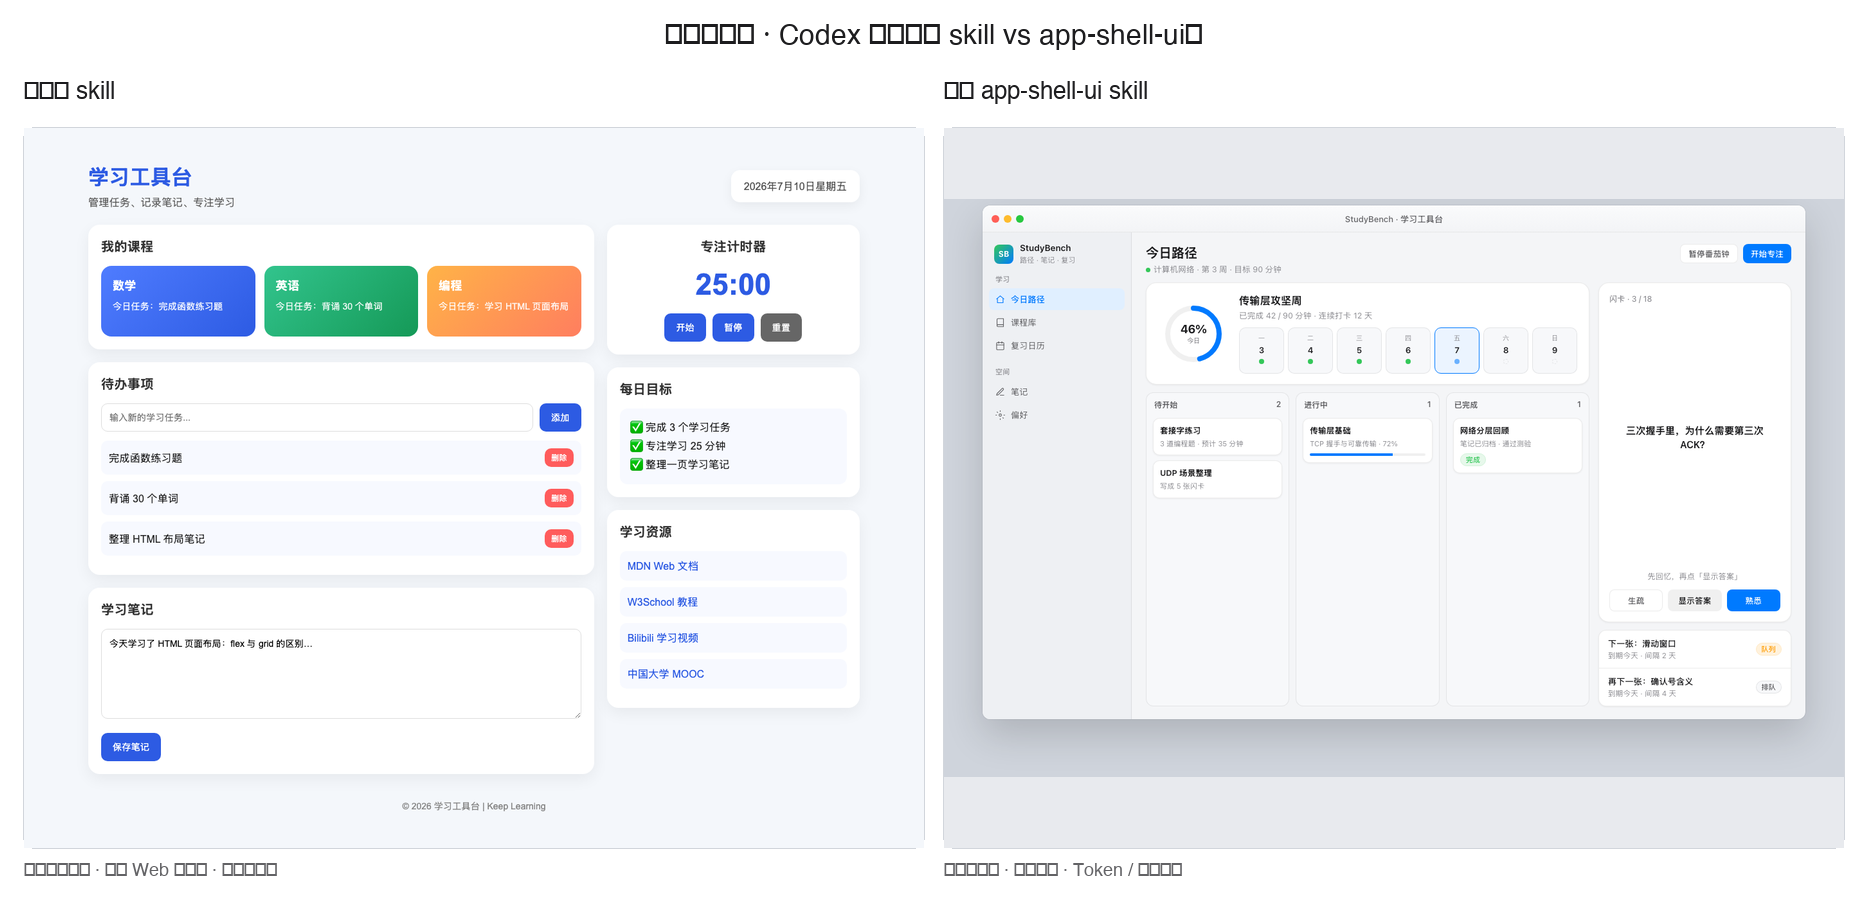
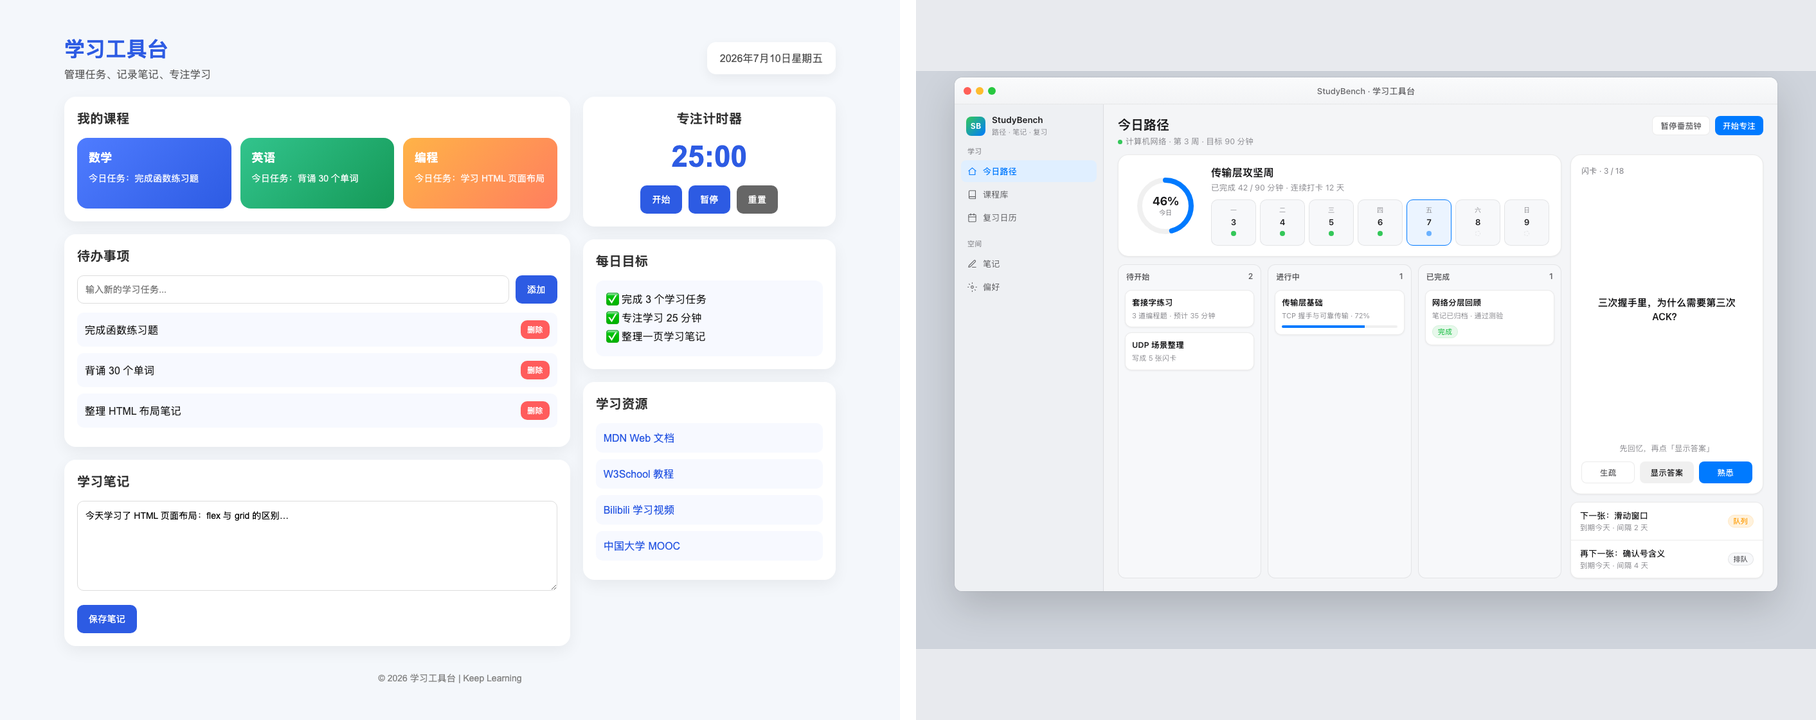
docs: align learning compare panels without overlay text
Rebuild equal 900x720 side-by-side comparison from fresh screenshots
and simplify README so labels stay in Markdown only.

diff --git a/README.md b/README.md
@@ -40,22 +40,15 @@
 
 ### Codex 写前端对比：学习工具台
 
-同一主题「学习工具台」——**左：未使用 skill**（Codex 自由发挥）；**右：使用 `app-shell-ui` skill**。  
-对比图两侧画布统一为 **900×720**，避免截图比例不一致导致错位。
-
-<p align="center">
-  <a href="demos/learning-before.html"><img src="assets/showcase/learning-compare.png" alt="学习工具台：未使用 skill vs 使用 app-shell-ui" width="100%"></a>
-</p>
+同一主题「学习工具台」——**左：未使用 skill**；**右：使用 `app-shell-ui` skill**。
 
 | 左 · [未使用 skill](demos/learning-before.html) | 右 · [使用 skill](demos/learning.html) |
-| --- | --- |
+| :---: | :---: |
 | 彩色卡片堆叠 · 通用 Web 仪表盘 · 无统一壳层 | 桌面工具壳 · 侧栏导航 · Token / 克制配色 |
 
-```bash
-# 对比页
-open http://127.0.0.1:8040/learning-before.html   # 未使用 skill
-open http://127.0.0.1:8040/learning.html          # 使用 skill
-```
+<p align="center">
+  <img src="assets/showcase/learning-compare.png" alt="学习工具台：未使用 skill vs 使用 app-shell-ui" width="100%">
+</p>
 
 ### 四主题案例
 

diff --git a/README_EN.md b/README_EN.md
@@ -30,11 +30,14 @@ Four demos, one shell — screenshots under [`assets/showcase/`](assets/showcase
 
 ### Before / after (learning workbench)
 
-Same topic. Left: Codex **without** skill. Right: Codex **with** `app-shell-ui`.  
-Both panels are normalized to **900×720** so the README stays aligned.
+Same topic. Left: without skill. Right: with `app-shell-ui`. Panels are equal size (900×720).
+
+| [Without skill](demos/learning-before.html) | [With skill](demos/learning.html) |
+| :---: | :---: |
+| Generic colorful dashboard | Desktop utility shell |
 
 <p align="center">
-  <a href="demos/learning-before.html"><img src="assets/showcase/learning-compare.png" alt="learning before vs after" width="100%"></a>
+  <img src="assets/showcase/learning-compare.png" alt="learning before vs after" width="100%">
 </p>
 
 ### Four themes
